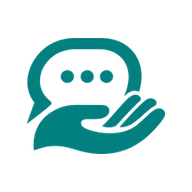
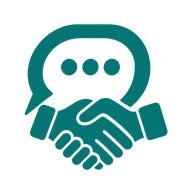
Update Muhtaj Lak moderation, admin controls and handshake branding

Changed region(s): [[0.125, 0.125, 0.875, 0.9062]]

diff --git a/profession-admin.js b/profession-admin.js
@@ -1,9 +1,10 @@
-import {business} from './business-api.js?v=328f8413b68fb088';
+import {business} from './business-api.js?v=7b704c30daba97f8';
 
-import {compressImage} from './image-upload.mjs?v=328f8413b68fb088';
+import {compressImage} from './image-upload.mjs?v=7b704c30daba97f8';
 
 const root=document.querySelector('#app');
-root.innerHTML='<main class="review-shell" dir="rtl"><header><details class="admin-menu"><summary aria-label="قائمة أقسام الإدارة"><svg aria-hidden="true" width="24" height="24" viewBox="0 0 24 24" fill="none" stroke="currentColor" stroke-width="2" stroke-linecap="round"><path d="M3 6h18M3 12h18M3 18h18"/></svg></summary><nav aria-label="أقسام الإدارة"><button data-pane="requests" aria-pressed="true">المهن</button><button data-pane="app-settings" aria-pressed="false">إعدادات التطبيق</button><button data-pane="support-tickets" aria-pressed="false">الدعم</button><button data-pane="banners" aria-pressed="false">البنرات</button></nav></details><span class="review-mark" aria-hidden="true">م</span><div><strong>محتاج لك</strong><p>لوحة الإدارة</p></div></header><section id="requests"><h1>طلبات أصحاب المهن</h1><p role="status" aria-live="polite"></p><div class="review-list"></div><button class="more" hidden>عرض المزيد</button></section></main>';
+root.innerHTML='<main class="review-shell" dir="rtl"><header><details class="admin-menu"><summary aria-label="قائمة أقسام الإدارة"><svg aria-hidden="true" width="24" height="24" viewBox="0 0 24 24" fill="none" stroke="currentColor" stroke-width="2" stroke-linecap="round"><path d="M3 6h18M3 12h18M3 18h18"/></svg></summary><nav aria-label="أقسام الإدارة"><button data-pane="requests" aria-pressed="true">المهن</button><button data-pane="categories" aria-pressed="false">تصنيفات المهن</button><button data-pane="app-settings" aria-pressed="false">إعدادات التطبيق</button><button data-pane="violations" aria-pressed="false">المخالفات</button><button data-pane="support-tickets" aria-pressed="false">الدعم</button><button data-pane="banners" aria-pressed="false">البنرات</button></nav></details><img class="review-mark" alt="" width="48" height="48"><div><strong>محتاج لك</strong><p>لوحة الإدارة</p></div></header><section id="requests"><h1>طلبات أصحاب المهن</h1><p role="status" aria-live="polite"></p><div class="review-list"></div><button class="more" hidden>عرض المزيد</button></section></main>';
+root.querySelector('.review-mark').src=window.IMC_PAGES?'icon-192.png?v=handshake1':'/help-assets/brand-mark.webp?v=handshake1';
 const list=root.querySelector('.review-list');
 const status=root.querySelector('[role=status]');
 const more=root.querySelector('.more');
@@ -330,6 +331,83 @@ async function loadTickets(reset){
 }
 ticketMore.onclick=()=>loadTickets(false);
 
+const violations=document.createElement('section');
+violations.id='violations';
+violations.hidden=true;
+violations.innerHTML='<h1>المخالفات</h1><h2>الحسابات الموقوفة مؤقتاً</h2><p role="status"></p><div class="review-list"></div><button class="more" hidden>عرض المزيد</button>';
+root.querySelector('main').append(violations);
+const violationList=violations.querySelector('.review-list');
+const violationStatus=violations.querySelector('[role=status]');
+const moreSuspensions=violations.querySelector('.more');
+let suspensionCursor=null,suspensionVersion=0;
+async function loadSuspensions(reset){
+  const version=++suspensionVersion;
+  if(reset){suspensionCursor=null;violationList.replaceChildren();moreSuspensions.hidden=true;}
+  violationStatus.textContent='جارٍ تحميل الحسابات…';
+  moreSuspensions.disabled=true;
+  try{
+    const result=await business('suspendedUsers',{paginationOpts:{cursor:suspensionCursor,numItems:25}});
+    if(version!==suspensionVersion)return;
+    for(const user of result.page){
+      const card=document.createElement('article'),name=document.createElement('h2'),details=document.createElement('p'),lift=document.createElement('button');
+      name.textContent=user.name;
+      details.textContent=[user.phone,'ينتهي الإيقاف '+new Date(user.until).toLocaleString('ar-IQ',{timeZone:'Asia/Baghdad'})+' بتوقيت بغداد'].filter(Boolean).join(' · ');
+      lift.textContent='رفع الإيقاف';
+      lift.onclick=async()=>{
+        if(!confirm('ترفع الإيقاف المؤقت عن '+user.name+' الآن؟'))return;
+        lift.disabled=true;
+        try{
+          await business('liftSuspension',{userId:user.id,until:user.until});
+          await loadSuspensions(true);
+          violationStatus.textContent='تم رفع الإيقاف المؤقت عن '+user.name;
+        }catch(error){violationStatus.textContent=error.message;lift.disabled=false;}
+      };
+      card.append(name,details,lift);violationList.append(card);
+    }
+    suspensionCursor=result.continueCursor;
+    moreSuspensions.hidden=result.isDone;
+    violationStatus.textContent=violationList.childElementCount?'':'ماكو حسابات موقوفة مؤقتاً.';
+  }catch(error){violationStatus.textContent=error.message;}
+  finally{if(version===suspensionVersion)moreSuspensions.disabled=false;}
+}
+moreSuspensions.onclick=()=>loadSuspensions(false);
+
+const categoriesPane=document.createElement('section');
+categoriesPane.id='categories';
+categoriesPane.hidden=true;
+categoriesPane.innerHTML='<h1>تصنيفات المهن</h1><form><label>اسم التصنيف <input name="categoryName" maxlength="50" required></label> <button>إنشاء تصنيف</button></form><p role="status"></p><div class="review-list"></div>';
+root.querySelector('main').append(categoriesPane);
+const categoryForm=categoriesPane.querySelector('form');
+const categoryStatus=categoriesPane.querySelector('[role=status]');
+const categoryRows=categoriesPane.querySelector('.review-list');
+let categoryVersion=0;
+async function categoryAction(args){
+  const version=++categoryVersion;
+  categoriesPane.inert=true;
+  try{
+    const items=await business(args?'editCategory':'adminCategories',args ?? {});
+    if(version!==categoryVersion)return;
+    categoryRows.replaceChildren();
+    for(const [id,name] of items){
+      const row=document.createElement('article'),label=document.createElement('strong');
+      label.textContent=name;
+      row.append(label);
+      if(id!=='other'){
+        const rename=document.createElement('button'),remove=document.createElement('button');
+        rename.textContent='تعديل';remove.textContent='حذف';
+        rename.onclick=()=>{const value=prompt('الاسم الجديد للتصنيف',name);if(value?.trim())categoryAction({action:'rename',id,name:value});};
+        remove.onclick=()=>{if(confirm('حذف تصنيف «'+name+'»؟'))categoryAction({action:'delete',id});};
+        row.append(rename,remove);
+      }
+      categoryRows.append(row);
+    }
+    if(args?.action==='create')categoryForm.reset();
+    categoryStatus.textContent=args?'تم حفظ التغيير':'';
+  }catch(error){categoryStatus.textContent=error.message;}
+  finally{if(version===categoryVersion)categoriesPane.inert=false;}
+}
+categoryForm.onsubmit=event=>{event.preventDefault();categoryAction({action:'create',name:categoryForm.elements.categoryName.value});};
+
 for(const tab of root.querySelectorAll('[data-pane]')){
   tab.onclick=()=>{
     for(const item of root.querySelectorAll('[data-pane]')){
@@ -339,6 +417,8 @@ for(const tab of root.querySelectorAll('[data-pane]')){
     }
     menu.open=false;
     trigger.focus();
+    if(tab.dataset.pane==='violations')loadSuspensions(true);
+    if(tab.dataset.pane==='categories')categoryAction();
     if(tab.dataset.pane==='requests')load(true);
     if(tab.dataset.pane==='app-settings')loadSettings();
     if(tab.dataset.pane==='support-tickets')loadTickets(true);

diff --git a/pages-boot.js b/pages-boot.js
@@ -3,7 +3,7 @@ window.IMC_PAGES=true;
 function jsonError(message,status=400){return new Response(JSON.stringify({error:message}),{status,headers:{'Content-Type':'application/json'}});}
 window.fetch=async(input,init={})=>{const url=new URL(typeof input==='string'||input instanceof URL?input:input.url,location.href);if(url.origin!==location.origin)return originalFetch(input,init);if(url.pathname==='/firebase-public.json')return originalFetch(new URL('firebase-public.json',BASE),init);if(!url.pathname.startsWith('/api/'))return originalFetch(input,init);if(!sessionToken)return jsonError('سجل الدخول أولاً',401);const headers=new Headers(init.headers||(input instanceof Request?input.headers:undefined));headers.set('Authorization','Bearer '+sessionToken);let target,options={...init,headers,credentials:'omit',cache:'no-store'};if(url.pathname==='/api/images'){target=ENDPOINT+'/pages/admin/images';}else if(url.pathname==='/api/business/receipt'||url.pathname==='/api/business/uploadReceipt'){target=ENDPOINT+'/pages/admin/'+(url.pathname.endsWith('uploadReceipt')?'receipt-upload':'receipt')+url.search;}else{let operation;if(url.pathname.startsWith('/api/business/'))operation=url.pathname.split('/').pop();else if(url.pathname.startsWith('/api/push/')){const op=url.pathname.split('/').pop();operation='push'+op[0].toUpperCase()+op.slice(1);}else return jsonError('هذه الواجهة خاصة بالإدارة',403);let args={};try{if(init.body)args=JSON.parse(init.body);}catch{return jsonError('طلب غير صالح');}target=ENDPOINT+'/pages/admin/api';headers.set('Content-Type','application/json');options={method:'POST',headers,credentials:'omit',cache:'no-store',body:JSON.stringify({operation,args})};}const response=await originalFetch(target,options);if(response.status===401&&sessionToken){sessionToken='';location.reload();}return response;};
 async function clearPush(){const r=await navigator.serviceWorker?.getRegistration(BASE.href);r?.active?.postMessage({type:'CLEAR_PUSH_CONTEXT',role:'admin'});}
-document.querySelector('#pages-login-form').addEventListener('submit',async event=>{event.preventDefault();const button=event.target.querySelector('button'),pin=document.querySelector('#admin-pin'),status=document.querySelector('#pages-login-status');button.disabled=true;status.textContent='جارٍ التحقق…';try{const r=await originalFetch(ENDPOINT+'/pages/admin/login',{method:'POST',headers:{'Content-Type':'application/json'},credentials:'omit',cache:'no-store',body:JSON.stringify({pin:pin.value})});pin.value='';const data=await r.json();if(!r.ok)throw Error(data.error||'تعذر الدخول');if(!/^[a-f0-9]{64}$/.test(data.sessionToken))throw Error('استجابة دخول غير صالحة');sessionToken=data.sessionToken;document.querySelector('#pages-login').hidden=true;document.querySelector('#pages-bar').hidden=false;document.querySelector('#app').hidden=false;if(!loadingApp){loadingApp=true;await import('./profession-admin.js?v=328f8413b68fb088');}}catch(e){status.textContent=e.message;}finally{button.disabled=false;}});
+document.querySelector('#pages-login-form').addEventListener('submit',async event=>{event.preventDefault();const button=event.target.querySelector('button'),pin=document.querySelector('#admin-pin'),status=document.querySelector('#pages-login-status');button.disabled=true;status.textContent='جارٍ التحقق…';try{const r=await originalFetch(ENDPOINT+'/pages/admin/login',{method:'POST',headers:{'Content-Type':'application/json'},credentials:'omit',cache:'no-store',body:JSON.stringify({pin:pin.value})});pin.value='';const data=await r.json();if(!r.ok)throw Error(data.error||'تعذر الدخول');if(!/^[a-f0-9]{64}$/.test(data.sessionToken))throw Error('استجابة دخول غير صالحة');sessionToken=data.sessionToken;document.querySelector('#pages-login').hidden=true;document.querySelector('#pages-bar').hidden=false;document.querySelector('#app').hidden=false;if(!loadingApp){loadingApp=true;await import('./profession-admin.js?v=7b704c30daba97f8');}}catch(e){status.textContent=e.message;}finally{button.disabled=false;}});
 document.querySelector('#pages-lock').addEventListener('click',async()=>{try{await clearPush();await fetch('/api/business/logout',{method:'POST',headers:{'Content-Type':'application/json'},body:'{}'});}finally{sessionToken='';location.reload();}});
 window.addEventListener('beforeinstallprompt',event=>{event.preventDefault();installPrompt=event;document.querySelector('#pages-install').hidden=false;});document.querySelector('#pages-install').addEventListener('click',async()=>{if(!installPrompt)return;await installPrompt.prompt();await installPrompt.userChoice;installPrompt=undefined;document.querySelector('#pages-install').hidden=true;});
 document.addEventListener('click',async event=>{const link=event.target.closest('a[href]');if(!link)return;const u=new URL(link.href,location.href);if(u.origin!==location.origin||u.pathname!=='/api/business/receipt')return;event.preventDefault();const tab=window.open('about:blank','_blank');try{const r=await fetch(u.href);if(!r.ok)throw Error('الملف غير متاح');const blob=await r.blob(),url=URL.createObjectURL(blob);if(tab)tab.location.href=url;else location.href=url;setTimeout(()=>URL.revokeObjectURL(url),60000);}catch{tab?.close();document.querySelector('#toast').textContent='تعذر فتح الوصل؛ تحقق من الجلسة';}},true);

diff --git a/index.html b/index.html
@@ -1,1 +1,1 @@
-<!doctype html><html lang="ar" dir="rtl"><head><meta charset="utf-8"><meta name="viewport" content="width=device-width,initial-scale=1,viewport-fit=cover"><meta name="theme-color" content="#7450c9"><meta name="robots" content="noindex,nofollow"><meta http-equiv="Content-Security-Policy" content="default-src 'self'; script-src 'self' https://www.gstatic.com; style-src 'self' 'unsafe-inline'; img-src 'self' data: blob: https://iraq-china-stores-images.b-cdn.net; connect-src 'self' https://pleasant-rook-282.eu-west-1.convex.site https://*.googleapis.com https://www.gstatic.com https://iraq-china-stores-images.b-cdn.net; worker-src 'self'; manifest-src 'self'; object-src 'none'; base-uri 'self'; form-action 'self'"><title>محتاج لك | الإدارة</title><link rel="manifest" href="manifest.webmanifest"><link rel="icon" href="icon-192.png"><link rel="apple-touch-icon" href="icon-192.png"><link rel="stylesheet" href="style.css?v=328f8413b68fb088"><link rel="stylesheet" href="profession-admin.css?v=328f8413b68fb088"><link rel="stylesheet" href="pages-admin.css?v=328f8413b68fb088"></head><body><main id="pages-login" class="pages-login"><section class="pages-login-card"><img src="icon-192.png" alt="محتاج لك" width="88" height="88"><h1>محتاج لك</h1><p>لوحة الإدارة</p><form id="pages-login-form"><label for="admin-pin">رمز الدخول</label><input id="admin-pin" type="password" inputmode="numeric" autocomplete="off" minlength="4" maxlength="12" required pattern="[0-9]{4,12}" autofocus><button class="primary" type="submit">دخول</button><p id="pages-login-status" role="status" aria-live="polite"></p></form><small>نسخة التطوير</small></section></main><div id="pages-bar" class="pages-bar" hidden><b>محتاج لك — الإدارة</b><div><button id="pages-install" hidden>تثبيت لوحة الإدارة</button><button id="pages-lock">قفل وخروج</button></div></div><div id="app" hidden></div><div id="toast" role="status"></div><dialog id="modal"></dialog><script type="module" src="pages-boot.js?v=328f8413b68fb088"></script></body></html>
+<!doctype html><html lang="ar" dir="rtl"><head><meta charset="utf-8"><meta name="viewport" content="width=device-width,initial-scale=1,viewport-fit=cover"><meta name="theme-color" content="#7450c9"><meta name="robots" content="noindex,nofollow"><meta http-equiv="Content-Security-Policy" content="default-src 'self'; script-src 'self' https://www.gstatic.com; style-src 'self' 'unsafe-inline'; img-src 'self' data: blob: https://iraq-china-stores-images.b-cdn.net; connect-src 'self' https://pleasant-rook-282.eu-west-1.convex.site https://*.googleapis.com https://www.gstatic.com https://iraq-china-stores-images.b-cdn.net; worker-src 'self'; manifest-src 'self'; object-src 'none'; base-uri 'self'; form-action 'self'"><title>محتاج لك | الإدارة</title><link rel="manifest" href="manifest.webmanifest"><link rel="icon" href="icon-192.png?v=handshake1"><link rel="apple-touch-icon" href="icon-192.png?v=handshake1"><link rel="stylesheet" href="style.css?v=7b704c30daba97f8"><link rel="stylesheet" href="profession-admin.css?v=7b704c30daba97f8"><link rel="stylesheet" href="pages-admin.css?v=7b704c30daba97f8"></head><body><main id="pages-login" class="pages-login"><section class="pages-login-card"><img src="icon-192.png?v=handshake1" alt="محتاج لك" width="88" height="88"><h1>محتاج لك</h1><p>لوحة الإدارة</p><form id="pages-login-form"><label for="admin-pin">رمز الدخول</label><input id="admin-pin" type="password" inputmode="numeric" autocomplete="off" minlength="4" maxlength="12" required pattern="[0-9]{4,12}" autofocus><button class="primary" type="submit">دخول</button><p id="pages-login-status" role="status" aria-live="polite"></p></form><small>نسخة التطوير</small></section></main><div id="pages-bar" class="pages-bar" hidden><b>محتاج لك — الإدارة</b><div><button id="pages-install" hidden>تثبيت لوحة الإدارة</button><button id="pages-lock">قفل وخروج</button></div></div><div id="app" hidden></div><div id="toast" role="status"></div><dialog id="modal"></dialog><script type="module" src="pages-boot.js?v=7b704c30daba97f8"></script></body></html>

diff --git a/profession-admin.css b/profession-admin.css
@@ -1,4 +1,4 @@
-*{box-sizing:border-box}body{margin:0;background:#f4f8f7;color:#173e38;font:16px/1.55 system-ui,sans-serif}.review-shell{max-width:880px;margin:auto;padding:clamp(16px,4vw,48px)}.review-shell header{position:sticky;top:0;z-index:5;background:#f4f8f7;padding-top:8px;display:flex;gap:12px;align-items:center;border-bottom:1px solid #cbded8;padding-bottom:18px}.review-shell header p,.review-shell h2{margin:0}.review-mark{display:grid;place-items:center;background:#147a6e;color:white;width:48px;height:48px;border-radius:15px;font-size:28px;font-weight:bold}.review-shell section{margin-top:24px;background:white;border:1px solid #d7e6e1;border-radius:18px;padding:clamp(16px,4vw,32px)}.review-shell h1{font-size:24px;margin:0}.review-list article{padding:18px 0;border-top:1px solid #dde8e4}.review-shell button,.review-list a{display:inline-block;padding:9px 16px;border:0;border-radius:10px;font:inherit;text-decoration:none;cursor:pointer}.review-shell button{background:#136e61;color:white}.review-list a{color:#136e61;background:#e5f3ee;margin-inline-end:8px}.review-shell [hidden]{display:none}
+*{box-sizing:border-box}body{margin:0;background:#f4f8f7;color:#173e38;font:16px/1.55 system-ui,sans-serif}.review-shell{max-width:880px;margin:auto;padding:clamp(16px,4vw,48px)}.review-shell header{position:sticky;top:0;z-index:5;background:#f4f8f7;padding-top:8px;display:flex;gap:12px;align-items:center;border-bottom:1px solid #cbded8;padding-bottom:18px}.review-shell header p,.review-shell h2{margin:0}.review-mark{width:48px;height:48px;object-fit:contain;border-radius:12px}.review-shell section{margin-top:24px;background:white;border:1px solid #d7e6e1;border-radius:18px;padding:clamp(16px,4vw,32px)}.review-shell h1{font-size:24px;margin:0}.review-list article{padding:18px 0;border-top:1px solid #dde8e4}.review-shell button,.review-list a{display:inline-block;padding:9px 16px;border:0;border-radius:10px;font:inherit;text-decoration:none;cursor:pointer}.review-shell button{background:#136e61;color:white}.review-list a{color:#136e61;background:#e5f3ee;margin-inline-end:8px}.review-shell [hidden]{display:none}
 
 .admin-menu{position:relative}
 .admin-menu summary{display:grid;place-items:center;width:44px;height:44px;border:1px solid #cbded8;border-radius:12px;background:white;color:#136e61;cursor:pointer;list-style:none}
